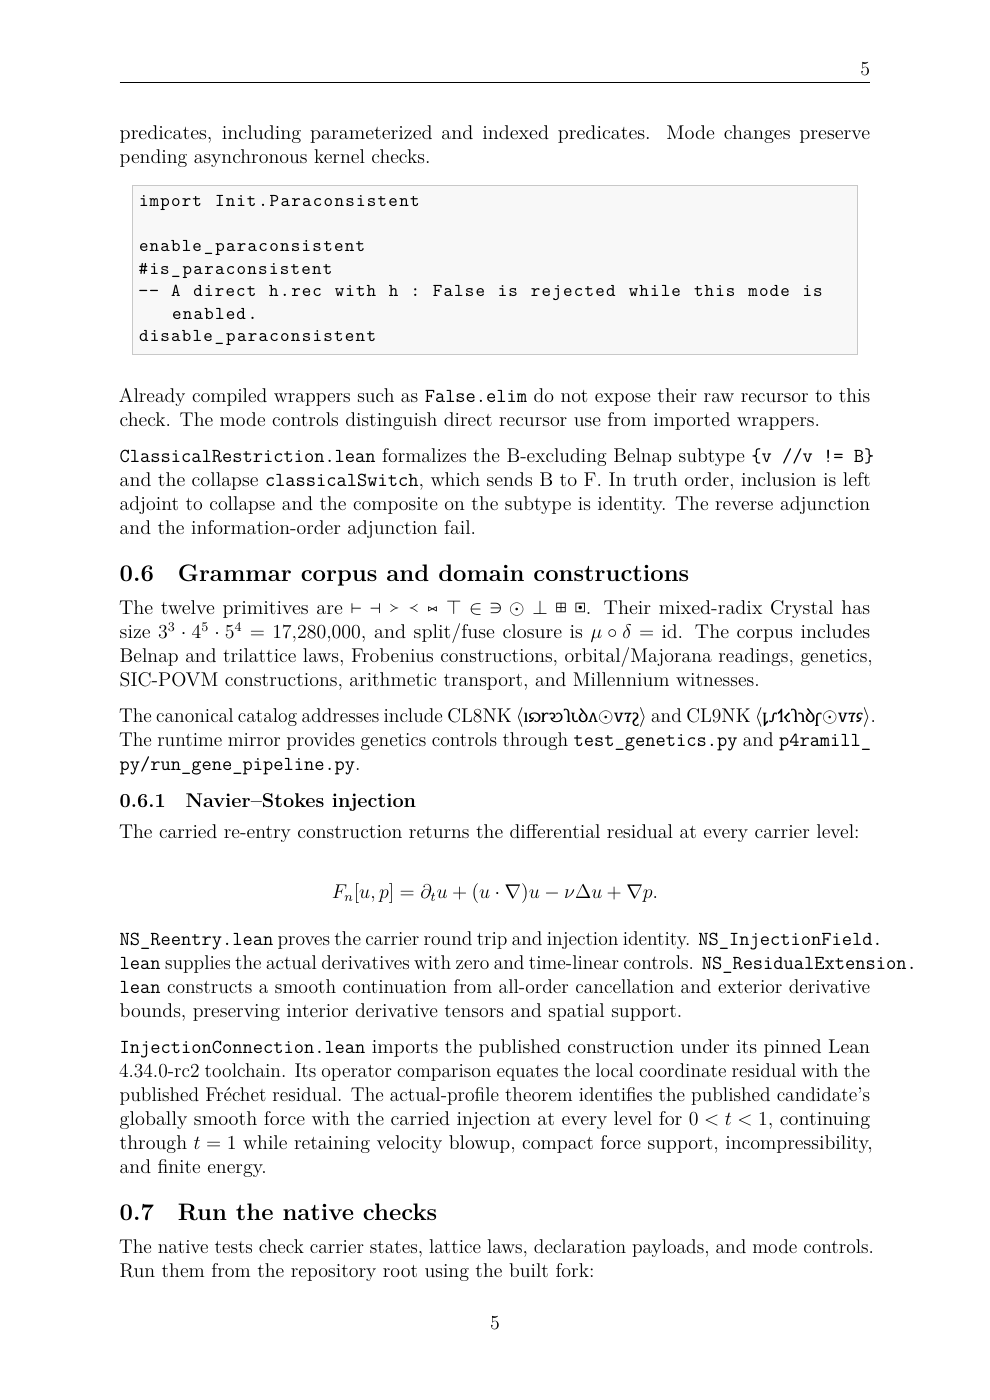
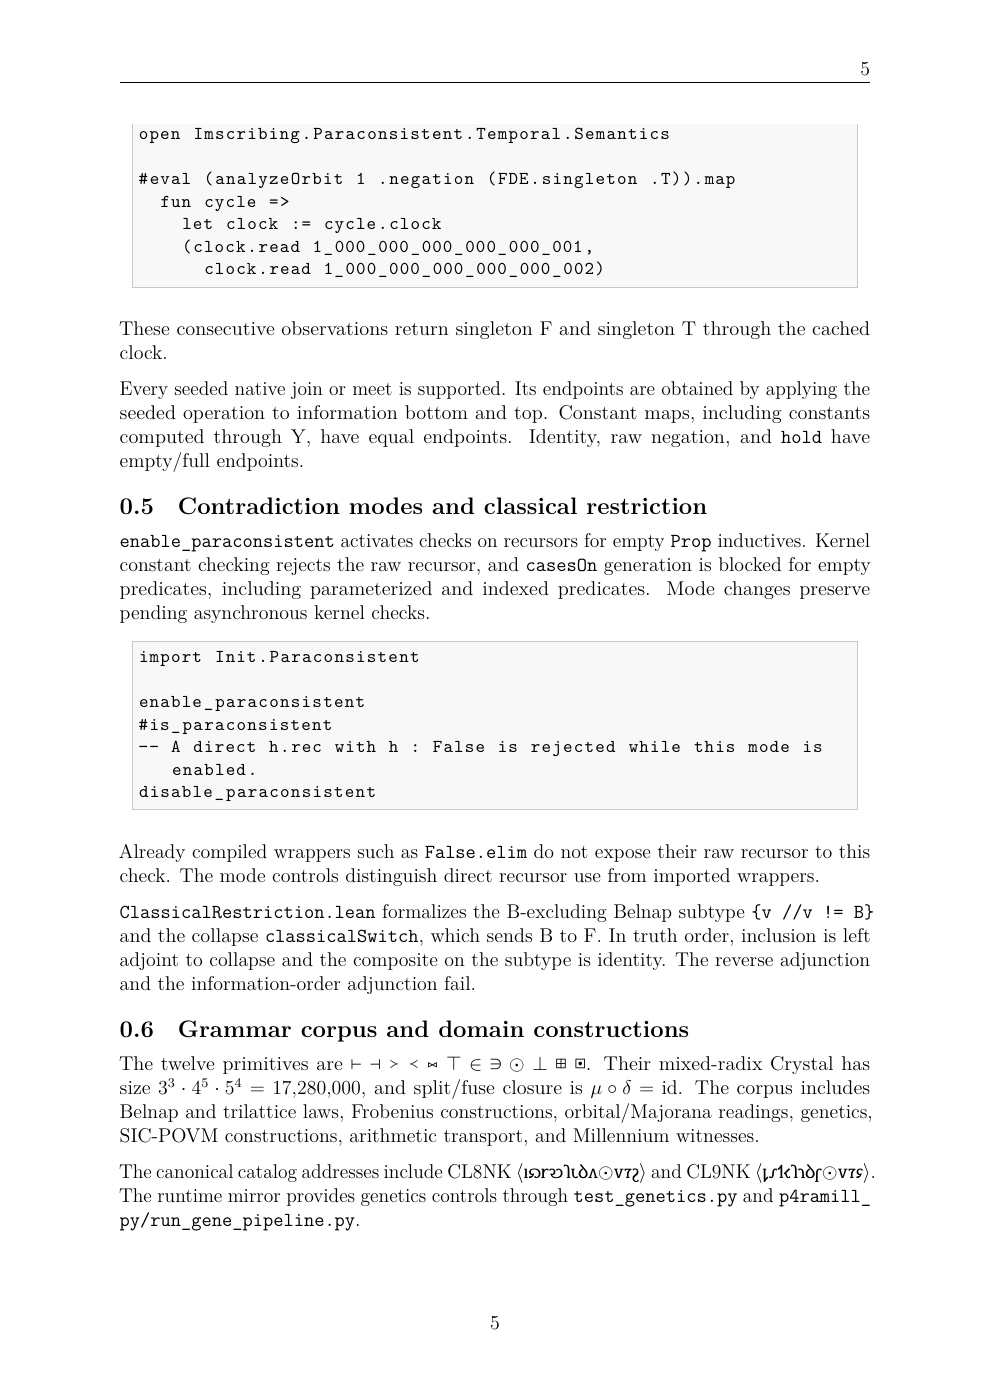
I read feedback phases directly from my certified clock
I cache native states and normalize arbitrary ticks relative to the first
cycle entry. I prove agreement with the original signal, preserve program
reduction between cached observations, and retain restart semantics.

I check cached reads across every native starting state in my program
families and exercise distant phase, transient, alternation, and retained
evidence controls. I integrate executable clock examples and their theorem
dependencies into both public READMEs.

diff --git a/p4ramill/README.md b/p4ramill/README.md
@@ -10,7 +10,8 @@ carrier into complete value tables with reduction witnesses. The native solver
 computes candidate fixed points, and Lean certificates establish their least
 and greatest bounds, settled feedback traces, and enclosure of every fixed
 state. Arbitrary starting states produce certified transients and primitive
-cycles with reduction evidence at every tick. The corpus also supplies domain
+cycles with reduction evidence at every tick. Finite clocks read distant ticks
+from cached native states and preserve the same feedback signal. The corpus also supplies domain
 constructions and typed transport interfaces.
 
 ## Select the fork and check a focused target
@@ -131,6 +132,38 @@ passed directly to `findCycle`, so endpoint and interior feedback share one
 program computation. Retained negation can oscillate from an interior seed
 even when its empty-start feedback settles.
 
+### Read a distant phase directly
+
+```lean
+import Imscribing.Paraconsistent.CombinatoryDynamics
+
+open Imscribing.Paraconsistent.CombinatoryDynamics
+open Imscribing.Paraconsistent.CombinatoryReentry
+open Imscribing.Paraconsistent.Temporal.Semantics
+
+#eval (analyzeOrbit 32 (seededOperator (FDE.singleton .N)) (FDE.singleton .T)).map
+  fun cycle =>
+    let clock := cycle.clock
+    (clock.read 0,
+      clock.read 1_000_000_000_000_000_001,
+      clock.read 1_000_000_000_000_000_002)
+```
+
+The observations are singleton T, the N/F subset, and the N/T subset. The
+initial T remains a transient observation. Later ticks retain N and alternate
+between the cycle phases.
+
+`Cycle.clock` materializes an array of native states. Reuse the resulting
+clock across observations. `Cycle.phaseTick` preserves ticks before the entry
+and reduces later offsets modulo the period; `Cycle.phaseTick_lt` proves
+every read stays inside the cache. Reading a distant tick performs phase
+arithmetic and an array lookup.
+
+`Clock.read_eq_orbit` proves agreement with the original signal at every tick.
+`Clock.program_tick` gives the original program's reduction between consecutive
+cached observations. `Clock.restart` proves that feedback resumed from a cached
+observation has the same future readout.
+
 ## Where to look
 
 | Directory or module | Contents |
@@ -141,7 +174,7 @@ even when its empty-start feedback settles.
 | `Imscribing/Paraconsistent/TrilatticePrograms.lean` | Six native operations, seeded and diagonal maps, injection/retention composition |
 | `Imscribing/Paraconsistent/CombinatoryFixedPoint.lean` | Certified tables and least information fixed points |
 | `Imscribing/Paraconsistent/CombinatoryFixedPointBounds.lean` | Greatest points, endpoint bounds, enclosure and uniqueness |
-| `Imscribing/Paraconsistent/CombinatoryDynamics.lean` | Arbitrary-seed transients, primitive cycles, periodic continuation and restart |
+| `Imscribing/Paraconsistent/CombinatoryDynamics.lean` | Arbitrary-seed transients, primitive cycles, cached phase lookup, periodic continuation and restart |
 | `Imscribing/Paraconsistent/` | Belnap FOUR, SIXTEEN_3, Frobenius, Witness values |
 | `Imscribing/IUTT.lean` | Packets, state decomposition, transport, Closure laws |
 | `Imscribing/ABC*.lean` | Arithmetic calibration, measurements, Θ transport |
@@ -180,13 +213,16 @@ The cycle audit follows every native starting state through the same program
 families and checks periodic continuation and restart. Its rejection controls
 cover zero periods, nonclosing candidates, repeated laps, late entries,
 oversized cycles, insufficient fuel, and unfinished data computations.
+Cached-read controls cover every native starting state, transient boundaries,
+distant phases, restart, and preservation of alternating and retained evidence.
 
 Compiler output identifies declarations that use axioms or `sorry`. Those
 dependencies belong to each theorem statement and audit. Endpoint enclosure,
 uniqueness, greatest-point program reduction, and settled feedback theorems
-print no axiom dependencies. Program-tick reduction, periodic continuation,
+print no axiom dependencies. `Cycle.program_tick`, periodic continuation,
 primitive return, restart, and the fixed/moving cycle theorems also print no
-axiom dependencies.
+axiom dependencies. `Clock.read_eq_orbit`, `Clock.program_tick`, and
+`Clock.restart` print `propext`, inherited from phase normalization.
 
 ## License
 

diff --git a/README.md b/README.md
@@ -10,8 +10,9 @@ Re-entry makes a monotone carrier map available as a stored fixed value in
 proofs and executable code. The combinator interface retains the computation
 that produced each table entry and certifies both endpoints of the map's
 fixed-state space. Feedback from an arbitrary starting state carries a certified
-transient and primitive period. An experiment can follow individual contractions,
-resume feedback at a chosen tick, or inspect fixed and oscillating memberships.
+transient and primitive period. Its finite clock reads arbitrary ticks by phase
+lookup. An experiment can follow individual contractions, resume feedback at a
+chosen tick, or inspect fixed and oscillating memberships.
 
 | Component | Role |
 |---|---|
@@ -111,7 +112,7 @@ Candidate endpoints are validated against that table before certificates are ret
 | [`TrilatticePrograms.lean`](p4ramill/Imscribing/Paraconsistent/TrilatticePrograms.lean) | Seeded and diagonal programs, injection, retention, ordered composition, endpoint laws |
 | [`CombinatoryFixedPoint.lean`](p4ramill/Imscribing/Paraconsistent/CombinatoryFixedPoint.lean) | Certified tables, least fixed points, feedback from empty |
 | [`CombinatoryFixedPointBounds.lean`](p4ramill/Imscribing/Paraconsistent/CombinatoryFixedPointBounds.lean) | Greatest fixed points, feedback from full, enclosure, uniqueness from equal endpoints |
-| [`CombinatoryDynamics.lean`](p4ramill/Imscribing/Paraconsistent/CombinatoryDynamics.lean) | Arbitrary-seed feedback, certified transient and primitive period, periodic continuation, restart |
+| [`CombinatoryDynamics.lean`](p4ramill/Imscribing/Paraconsistent/CombinatoryDynamics.lean) | Arbitrary-seed feedback, certified transient and primitive period, cached phase lookup, periodic continuation, restart |
 
 Lifted FOUR negation exchanges T and F memberships while preserving N and B.
 Raw negation unfolds a two-tick signal. `hold` computes the information union
@@ -175,6 +176,29 @@ open Imscribing.Paraconsistent.Temporal.Semantics
 Raw negation returns entry zero and period two, alternating singleton T and F.
 Retaining singleton N gives one transient tick followed by the N/F and N/T
 cycle. Both signals retain their states and their reduction witnesses.
+
+Build `cycle.clock` once to cache native states, then use `clock.read tick` for
+direct observations. Transient ticks keep their original positions; later
+ticks use their offset from the cycle entry modulo its primitive period.
+`Clock.read_eq_orbit` proves every cached read equals the original feedback.
+`Clock.program_tick` and `Clock.restart` retain reduction and continuation
+proofs for the cached interface.
+
+```lean
+import Imscribing.Paraconsistent.CombinatoryDynamics
+
+open Imscribing.Paraconsistent.CombinatoryDynamics
+open Imscribing.Paraconsistent.Temporal.Semantics
+
+#eval (analyzeOrbit 1 .negation (FDE.singleton .T)).map
+  fun cycle =>
+    let clock := cycle.clock
+    (clock.read 1_000_000_000_000_000_001,
+      clock.read 1_000_000_000_000_000_002)
+```
+
+These consecutive observations return singleton F and singleton T through the
+cached clock.
 
 Every seeded native join or meet is supported. Its endpoints are obtained by
 applying the seeded operation to information bottom and top. Constant maps,
@@ -260,5 +284,6 @@ uniqueness, greatest-point program reduction, and feedback-settlement theorems
 have no axiom dependencies. The cycle audit checks every native starting state
 for the lattice, combinator, and retained-negation families, with controls for
 nonclosing and nonprimitive cycle candidates. Periodic continuation, primitive
-return, restart, and the program-tick and fixed/moving cycle theorems also have
-no axiom dependencies.
+return, restart, and `Cycle.program_tick` and the fixed/moving cycle theorems
+also have no axiom dependencies. Phase-normalized clock agreement, program
+reduction, and restart depend on `propext` through the arithmetic normalization.
